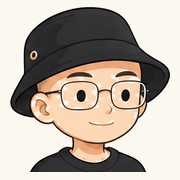
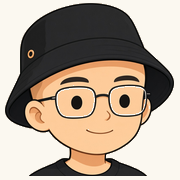
站点图标改用生图头像，不再用像素图
按三视图和首页人物生成线稿头像，favicon 与 apple touch 只从这张原图裁切缩放。

diff --git a/docs/site-style.md b/docs/site-style.md
@@ -38,4 +38,4 @@
 
 人物图在 `public/assets/char-*`。卡片封面在 `public/assets/design/`。怎么画新封面见 [cover-design.md](cover-design.md)。三视图只作 IP 参考，在 [ip/](ip/)，不进页面。
 
-站点图标在 `public/` 根目录：`favicon.ico` 含 16/32/48，另有同尺寸 PNG，以及 180 的 `apple-touch-icon.png`。小图标是三视图正面的简化（黑渔夫帽、铜扣、方框眼镜）；180 是正面头部裁切。不要放回 Astro 默认图标。
+站点图标在 `public/` 根目录：`favicon.ico` 含 16/32/48，另有同尺寸 PNG，以及 180 的 `apple-touch-icon.png`。原图是按 `docs/ip/char-turnaround.jpg` 和首页 `public/assets/char-lean.png` 生的线稿头像，文件在 `docs/ip/site-icon-master.jpg`，不进页面。各尺寸只从这张图裁切、缩放，不要改成像素图或 SVG。不要放回 Astro 默认图标。

diff --git a/docs/ip/README.md b/docs/ip/README.md
@@ -1,3 +1,5 @@
 # 人物 IP 参考
 
 `char-turnaround.jpg` 是超纯的线条风三视图，只给画新图时对照。站点页面用的是 `public/assets/char-lean.*` 和 `char-trip.*`，不要把这张参考图链进首页。
+
+`site-icon-master.jpg` 是按三视图和首页倚靠图生成的头像原图，只用来导出 `public/` 里的站点图标，同样不要链进首页。
